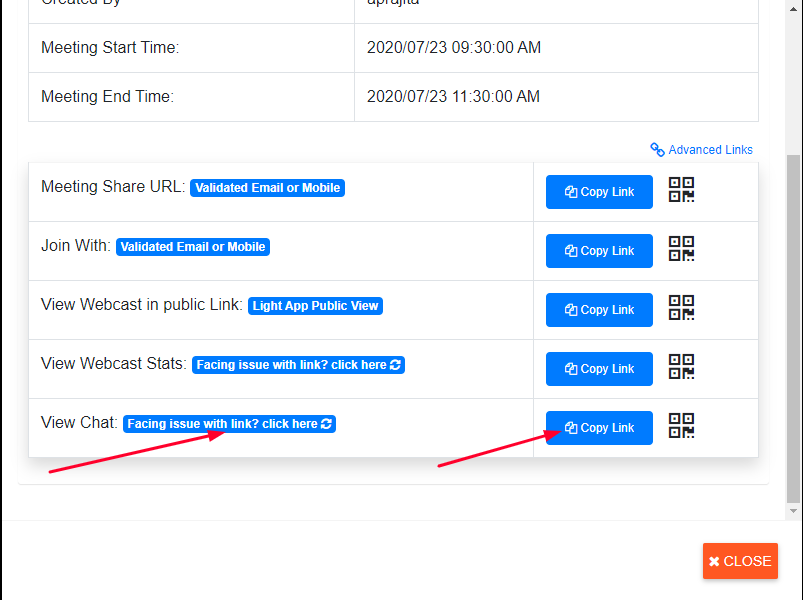
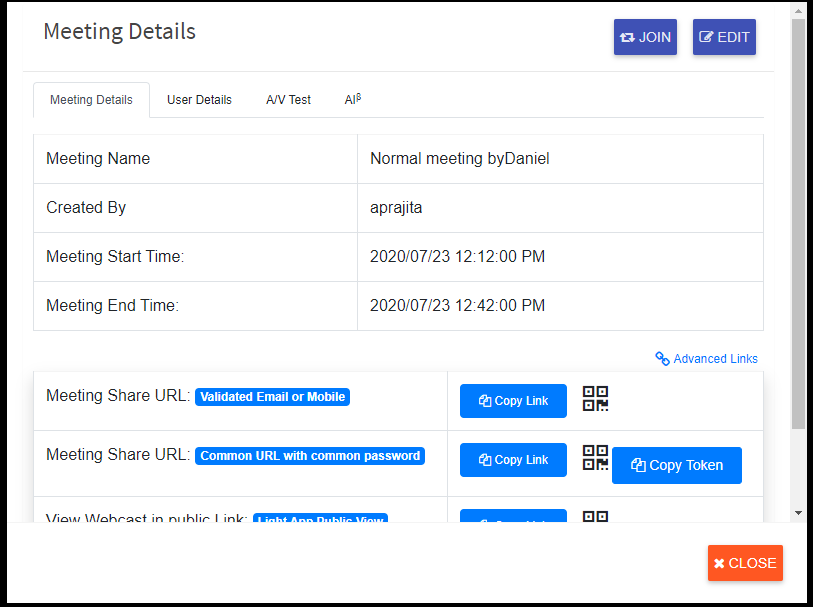
GitBook: [master] 2 pages and 24 assets modified

diff --git a/schedule-my-webinar.md b/schedule-my-webinar.md
@@ -22,7 +22,7 @@ Step 1. You Can Find The Log In Options Here And Click Next
 
 There Are More Options Where You Can Pull Others To Vc And You Will View Full Screen
 
-![](.gitbook/assets/image%20%28326%29.png)
+![](.gitbook/assets/image%20%28333%29.png)
 
 Choose Streaming Appliaction For Cost Set Up And Submit
 
@@ -56,7 +56,7 @@ In The Calendar And Notification Bar You Can Click On The Sceduled Event And Sta
 
 Copy The Links And Share And Join
 
-![](.gitbook/assets/image%20%28329%29.png)
+![](.gitbook/assets/image%20%28336%29.png)
 
 By Clicking On Advanced Links You Can See More Options
 
@@ -76,20 +76,20 @@ By Copying Link Of Validated Email Or Mobile You can Join The Meeting From Andro
 
 By Copying Link Of Light App Public View User Can Join Istudio Light
 
-![](.gitbook/assets/image%20%28328%29.png)
+![](.gitbook/assets/image%20%28335%29.png)
 
-![](.gitbook/assets/image%20%28317%29.png)
+![](.gitbook/assets/image%20%28322%29.png)
 
 View Webcast Stats Where You Can Find The Likes ,Dislikes And Views Click This Link
 
 ![](.gitbook/assets/image%20%28314%29.png)
 
-![](.gitbook/assets/image%20%28320%29.png)
+![](.gitbook/assets/image%20%28327%29.png)
 
 If You Want To View Chats Click On This Link  
 
 
-![](.gitbook/assets/image%20%28319%29.png)
+![](.gitbook/assets/image%20%28326%29.png)
 
 
 
@@ -101,9 +101,9 @@ For mobile users to see webinar Scan QR code link is provided
 
 Test Your Mic And System Before You Join
 
-![](.gitbook/assets/image%20%28327%29.png)
+![](.gitbook/assets/image%20%28334%29.png)
 
-![](.gitbook/assets/image%20%28321%29.png)
+![](.gitbook/assets/image%20%28328%29.png)
 
 Click On The Icon At Bottom Right CornerAnd Can Share The Link To Public User
 
@@ -115,20 +115,20 @@ Click On The Icon At Bottom Right CornerAnd Can Share The Link To Public User
 
 Click  button to Start Webinar
 
-![](.gitbook/assets/image%20%28322%29.png)
-
 ![](.gitbook/assets/image%20%28330%29.png)
+
+![](.gitbook/assets/image%20%28337%29.png)
 
 ![](.gitbook/assets/image%20%2866%29.png)
 
 You Can See All The Options By Clicking On Three Dot Elipse Button  
 
 
-![](.gitbook/assets/image%20%28304%29.png)
+![](.gitbook/assets/image%20%28309%29.png)
 
 You Can Chat,Message And Can Raise Hand To Say Something By Clicking On The Three Options At The Bottom Left Corner
 
-![](.gitbook/assets/image%20%28325%29.png)
+![](.gitbook/assets/image%20%28331%29.png)
 
 While The Live Streaming Is Going On You Can See The Option Streaming Blinking
 
@@ -136,7 +136,7 @@ While The Live Streaming Is Going On You Can See The Option Streaming Blinking
 
 Click On Ispeech And Whatever You will Speech Will Be There On Your Screen At The Right Side Chatbox
 
-![](.gitbook/assets/image%20%28309%29.png)
+![](.gitbook/assets/image%20%28317%29.png)
 
 ![](.gitbook/assets/image%20%2865%29.png)
 
@@ -177,7 +177,7 @@ User who is Broadcasting can stop there webinar after click on disconnect button
 
 After Webinar Stop Public user display below page
 
-![](.gitbook/assets/image%20%28316%29.png)
+![](.gitbook/assets/image%20%28321%29.png)
 
 URL To Use For Survey And Feedback
 

diff --git a/vc/scheduler/normal.md b/vc/scheduler/normal.md
@@ -18,7 +18,28 @@ After creation of Meeting will be display in notification bar and on calendar.
 
 Click on that meeting notification on calendar will show you ‘Meeting Details’ and ‘User Details’ tab. where you can see meeting as well as user details. Now click on ‘Join’ button to join meeting
 
-![](../../.gitbook/assets/image%20%28287%29.png)
+![](../../.gitbook/assets/image%20%28313%29.png)
+
+Click On Advanced Links And Can See More Options
+
+![](../../.gitbook/assets/image%20%28305%29.png)
+
+You Can Share Meeting URL By Clicking On This Link  
+
+
+![](../../.gitbook/assets/image%20%28320%29.png)
+
+You Can Share The Meeting URL With The Common Password Or Token Which You Will Set
+
+![](../../.gitbook/assets/image%20%28329%29.png)
+
+![](../../.gitbook/assets/image%20%28304%29.png)
+
+To View Webcast On Public Link Copy This Link And Share
+
+![](../../.gitbook/assets/image%20%28332%29.png)
+
+
 
 You have to click on Call icon to start meeting
 
